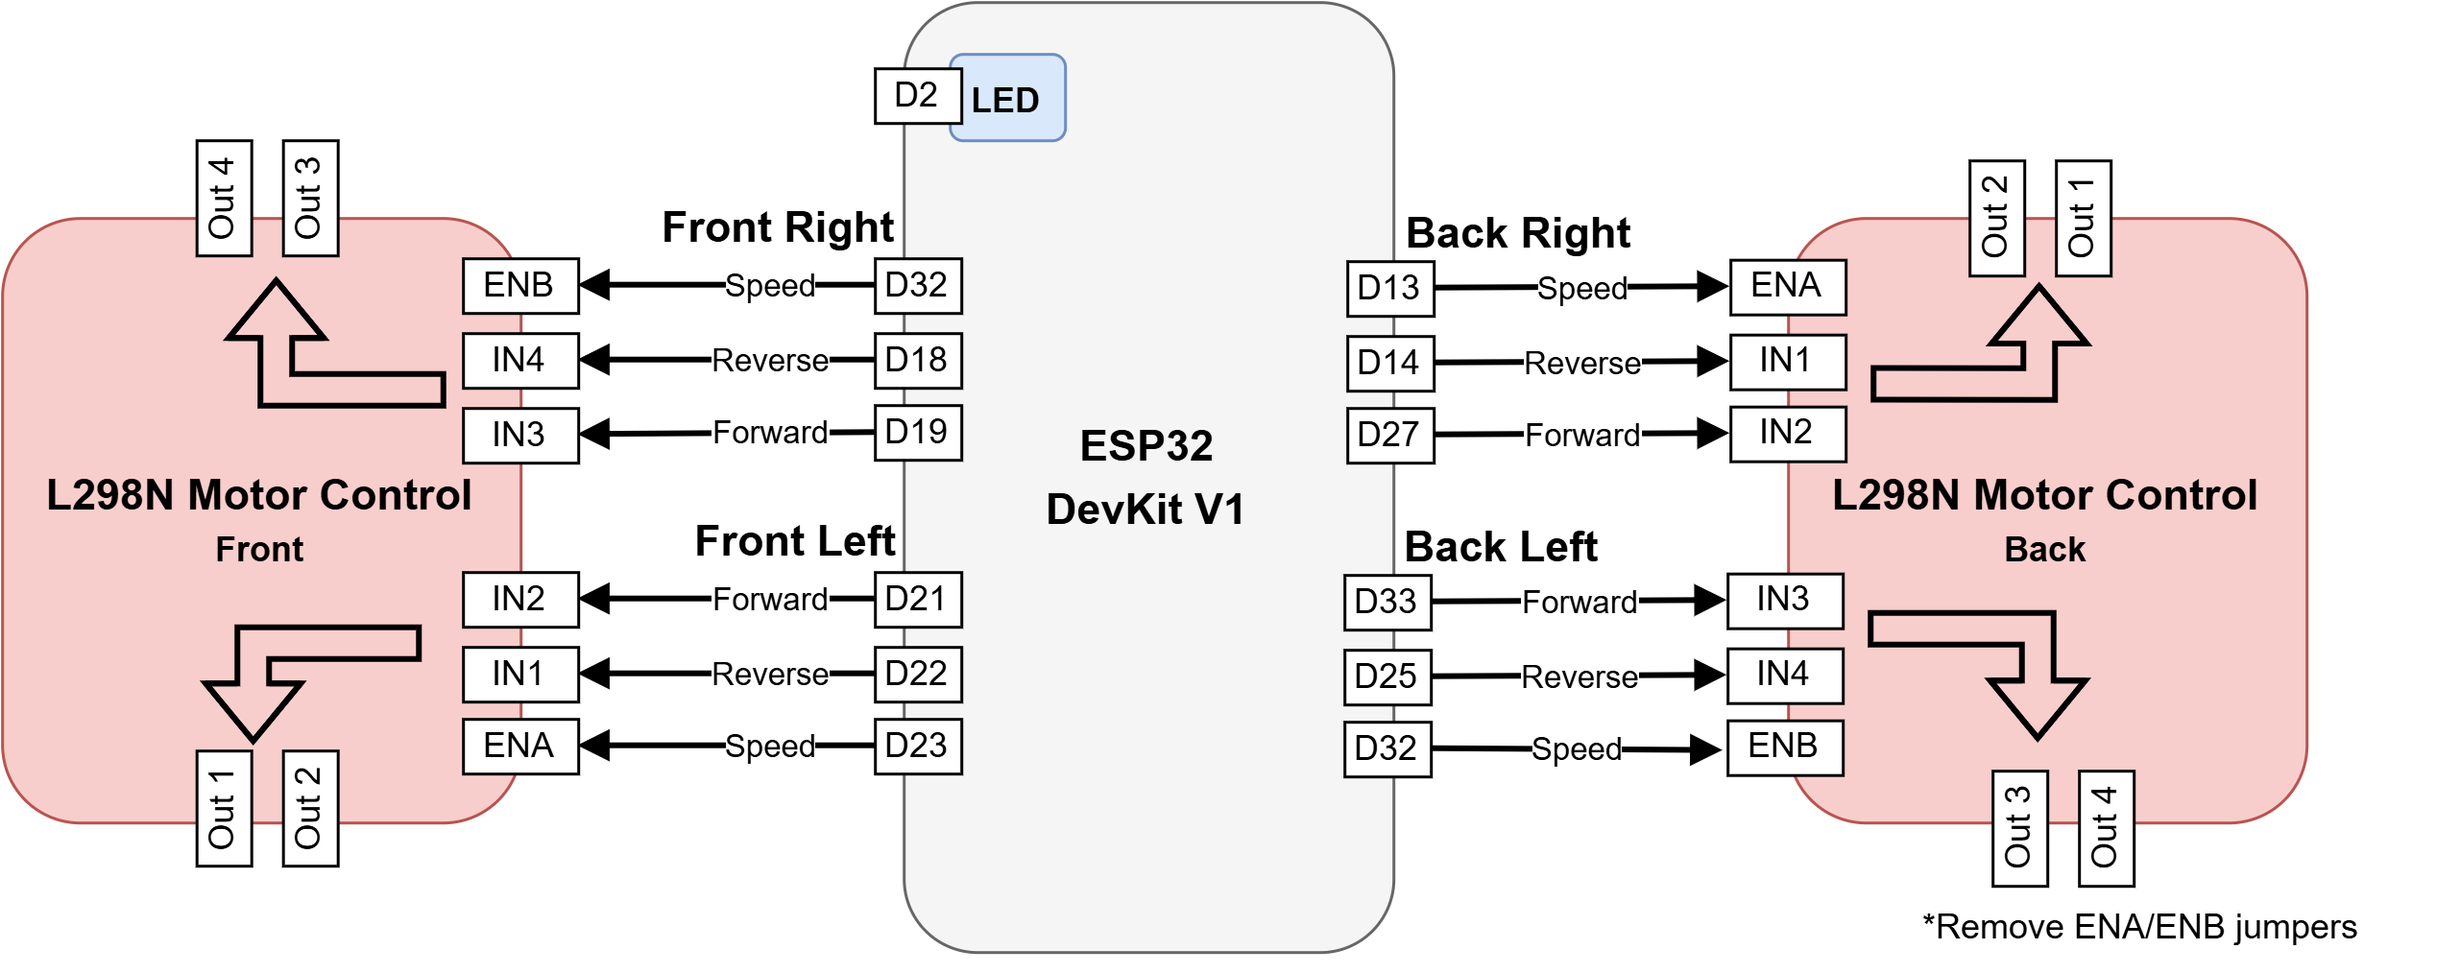
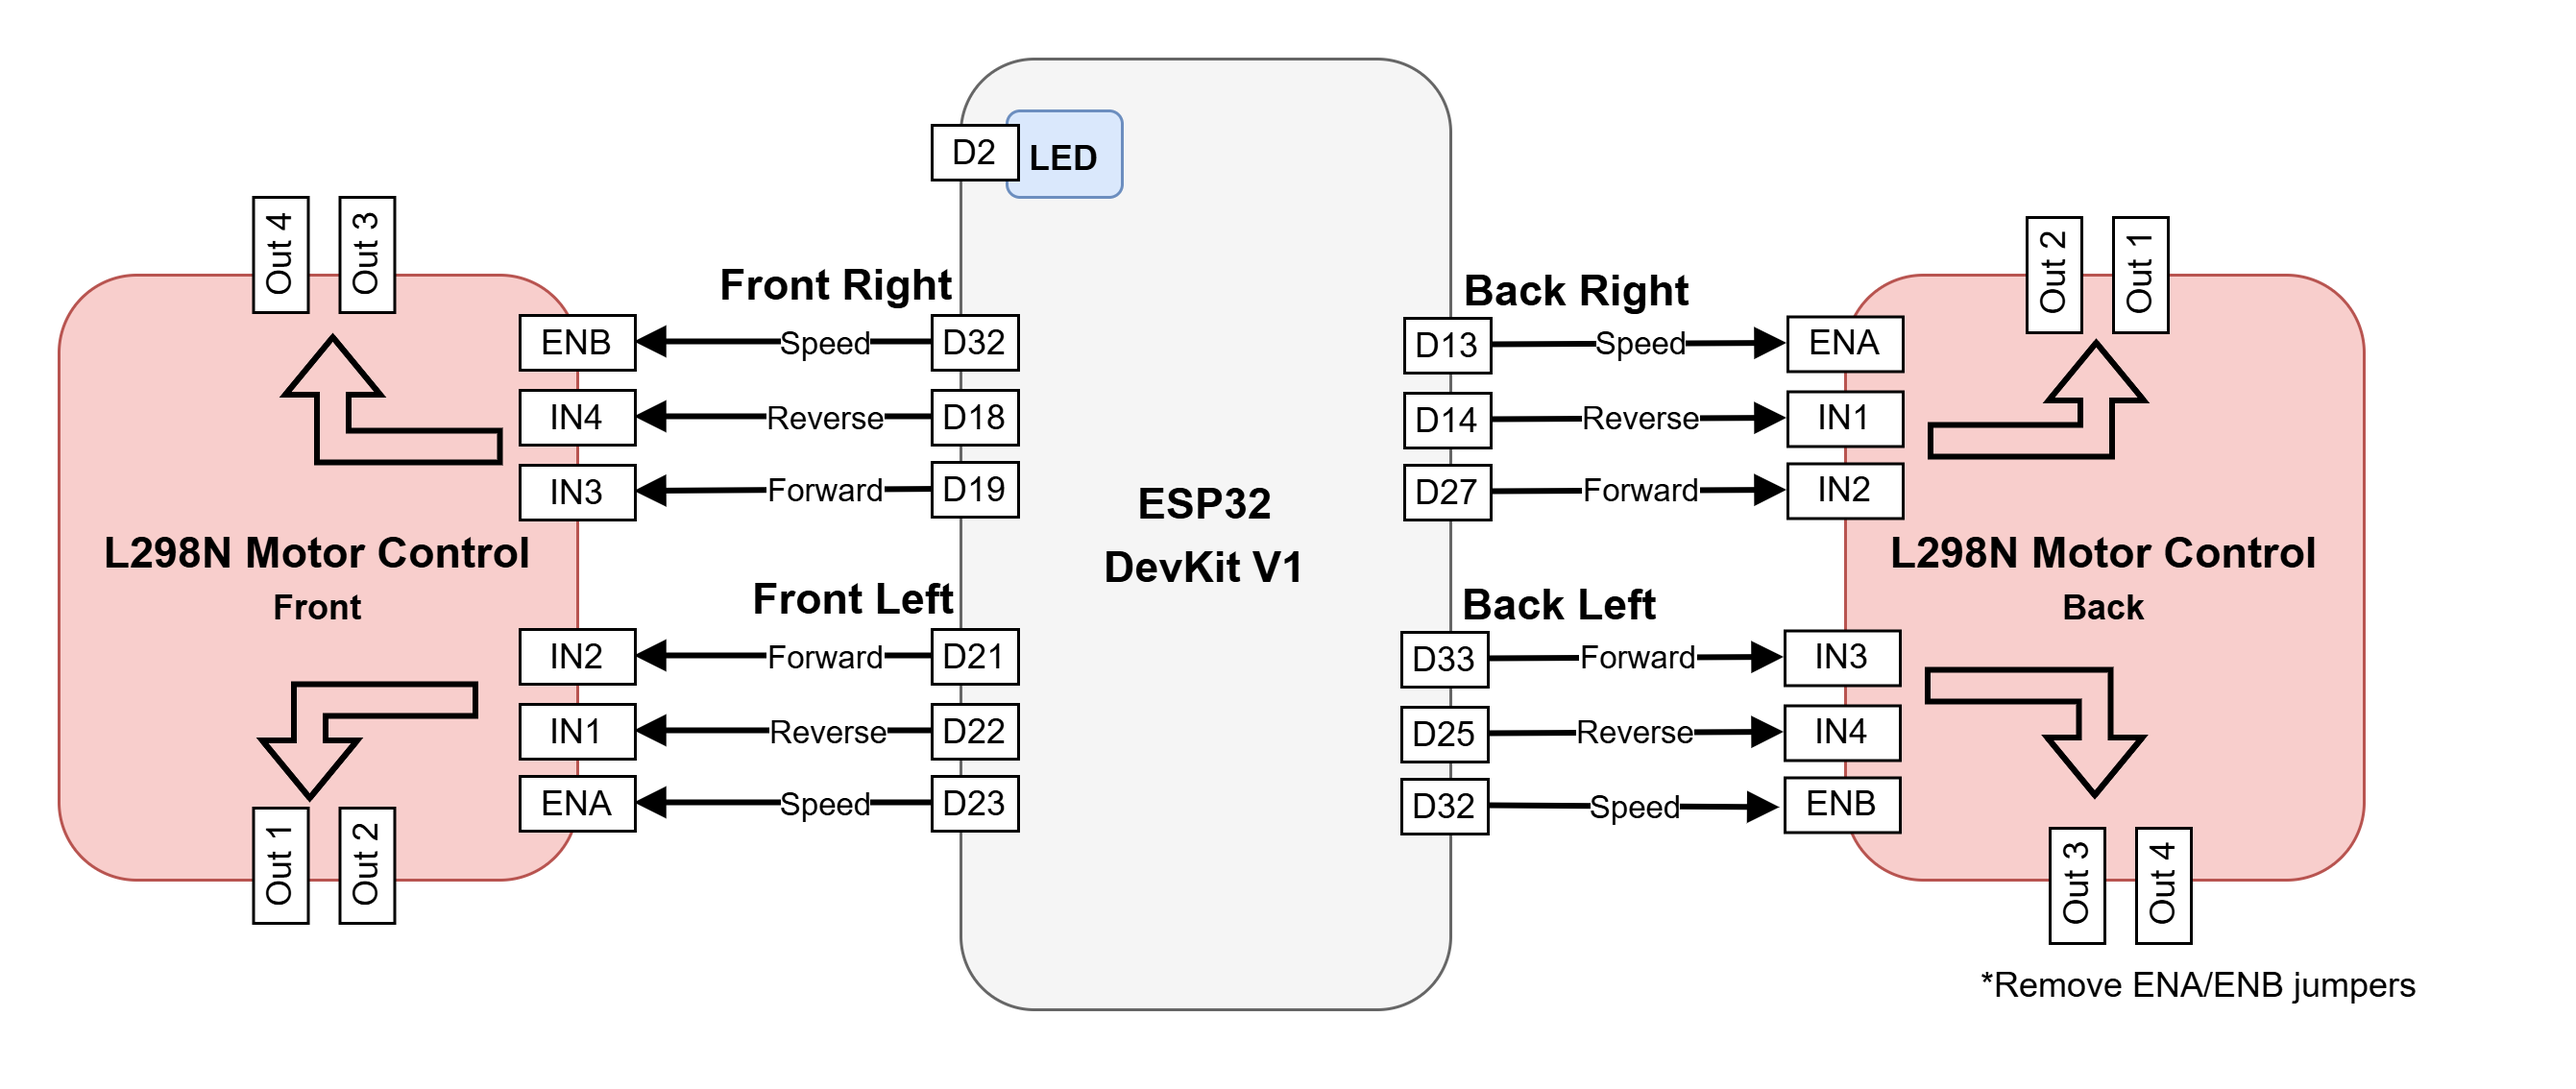
Working on overview post

diff --git a/_posts/2026-10-11-rover-overview.md b/_posts/2026-10-11-rover-overview.md
@@ -1,0 +1,164 @@
+---
+title: "Rover: An ESP32 DevKit V1 Omni-Wheel Platform"
+date: 2026-10-11 09:00:00 -0400
+categories: [Rover, ESP32, Projects]
+tags: [embedded, esp32, esp-idf, freertos, robotics, motors]
+---
+
+Rover is a tiny remote controlled car that I built from a metal frame, an ESP32 DevKit V1, and a TT Motor / mecanum wheel drivetrain. It was a fun project that allowed me to get more familiar with ESP32 and FreeRTOS, resulting in a base platform that can be used to test new controls and sensors.
+
+![Rover, a four-wheel omni-drive embedded project](/assets/img/rover/rover_landscape.jpg){:style="width:80%; display:block; margin-left:auto; margin-right:auto"}
+*Rover is a small platform for experimenting with embedded controls and hardware.*
+
+Rover uses Espressif's ESP-IDF rather than Arduino's higher-level APIs. This was an opportunity for me to gain familiarity with FreeRTOS (I've used Zephyr and was curious how they stack up). I also wanted Rover to be as portable as possible so I had a platform for playing with new microcontrollers in the future. Arduino's ESP32 framework also uses FreeRTOS underneath; the difference is the level of abstraction. The goal was not simply to make a car move, but to use low-level embedded software tools and build a platform for further exploration.
+
+The source is available in the [Rover repository](https://github.com/JFolkens/esp32_peripheral_debug/tree/rover_v1).
+There are in-depth posts on
+- {% assign my_post = site.posts | where: "path", "_posts/2026-09-25-modular-embedded-design-the-web-peripheral-interface.md" | first %}
+<a href="{{ my_post.url | relative_url }}">{{ my_post.title }}</a>
+- {% assign my_post = site.posts | where: "path", "_posts/2026-09-25-local-gtest-build.md" | first %}
+<a href="{{ my_post.url | relative_url }}">{{ my_post.title }}</a>
+- {% assign my_post = site.posts | where: "path", "_posts/2026-09-25-binary-assets-on-esp32.md" | first %}
+<a href="{{ my_post.url | relative_url }}">{{ my_post.title }}</a>
+
+## Hardware
+
+Rover uses two L298N dual-motor control boards to control four wheels independently (a necessity for omni-wheels). Each motor has separate Forward, Reverse, and Speed (PWM) control signals. The ESP32 DevKit V1 also has an onboard blue LED.
+
+![Rover ESP32 DevKit V1 pinout and L298N motor connections](/assets/img/diagrams/rover_pinout.png){:style="width:80%; display:block; margin-left:auto; margin-right:auto"}
+*Rover GPIO pinout.*
+
+Rover is powered from a battery pack mounted on the bottom of the chassis. This keeps the pack low and centered, while still being easy to remove. The frame is a basic aluminum template off [Amazon](https://www.amazon.com/DWWTKL-Omnidirectional-Educational-Raspberry-Unassembled/dp/B0CBRBCFMZ) which can be drilled through with essentially any drill bit.
+
+<div style="display: grid; grid-template-columns: 30% 30%; gap: 10%; justify-content: center;">
+  <figure style="margin: 0; text-align: center;">
+    <img src="/assets/img/rover/rover_bottom.jpg" width="100%" alt="Rover upside down showing battery pack" />
+    <em>Rover upside down</em>
+  </figure>
+  <figure style="margin: 0; text-align: center;">
+    <img src="/assets/img/rover/rover_bottom_battery_cover_off.jpg" width="100%" alt="Rover upside down with battery cover removed">
+    <em>Without battery cover</em>
+  </figure>
+</div>
+
+The battery supplies power to the motors via a strip of perfboard that I call my high-voltage rail (because I like to feel fancy). It also provides input to DC buck converter that provides a smooth 5V for the ESP32 board.
+
+![High-voltage rail powers motors and contains a DC step-down chip](/assets/img/rover/high_voltage_rail.jpg){:style="width:40%; display:block; margin-left:auto; margin-right:auto"}
+*High-voltage rail takes battery power and distributes to motor controllers and DC down converter.*
+
+ESP32 DevKit V1 has ports to accept 5V or 3.3V power. The MP1584 Buck Converter is tuned via a small screw on the top; I set it to 5V and connected it to the ESP32 perf board via JST connector.
+
+![Rover battery, power rails, motor drivers, and 5 V buck converter](/assets/img/diagrams/rover_power.png)
+*Power distribution for the motor drivers and ESP32 DevKit V1.*
+
+The battery uses two 3400 mAh cells in a 2S series pack. In a series pack the
+voltage adds while the amp-hour capacity remains about 3400 mAh; the cell
+capacities do not add to 6800 mAh. Capacity alone also does not establish
+runtime, which I have not measured under a defined test condition.
+
+![Rover electronics mounted on perfboard](/assets/img/rover/esp32_perfboard.jpg){:style="width:75%; display:block; margin-left:auto; margin-right:auto"}
+*The ESP32 and power wiring on the rover.*
+
+## Software and control path
+
+The control path runs from the browser to the motors:
+
+```text
+Browser controls
+    -> HTTP request over the local Wi-Fi network
+    -> ESP-IDF HTTP server and DeviceWebApp
+    -> web peripheral wrapper
+    -> DrivetrainOmni
+    -> motor interfaces and ESP32 GPIO/PWM implementation
+    -> L298N boards
+    -> motors
+```
+
+`app_main()` creates the ESP32 GPIO and motor objects, combines the four motors
+in `DrivetrainOmni`, and registers the web-facing peripherals with
+`DeviceWebApp`. The web application and hardware interfaces keep page and
+request handling separate from the low-level ESP32 implementation. That
+separation also lets selected logic be built and tested on a desktop with
+mocked hardware interfaces.
+
+The drivetrain accepts x translation, y translation, and clockwise rotation
+commands. It mixes those components into one command for each wheel, then
+scales the outputs if needed to keep them within the supported range. The
+commands are normalized requests, not measurements of wheel speed. Rover does
+not currently have encoders, so it cannot report actual wheel speed or
+position.
+
+The control page is available at `http://192.168.1.10` on my local network. The
+server uses plain HTTP and has no application-level authentication, so this is
+a development interface for a trusted local network, not a hardened remote
+control system.
+
+## What I have tested
+
+I brought the hardware up incrementally: first GPIO and the onboard LED, then
+PWM, then a single motor, and finally the complete drivetrain. This let me
+check smaller pieces before trying to debug the four-wheel mechanism as a
+whole.
+
+With the web controls, I have confirmed movement in both x directions, both y
+directions, and both rotation directions. Here is a short video of Rover in
+motion:
+
+<video width="100%" controls muted playsinline>
+  <source src="/assets/img/rover/rover_video_cropped.mp4" type="video/mp4">
+  Your browser does not support embedded video.
+</video>
+
+The repository also has host-side GoogleTest coverage for selected logic.
+Those tests help check software behavior without the physical rover, but they
+do not validate the wiring, motor drivers, or how the chassis moves. The
+[unit-testing post]({% post_url 2026-09-25-local-gtest-build %}) describes the
+scope and setup in more detail.
+
+## Limitations and next steps
+
+There are two important limitations in the current control system. First, the
+motor commands are open loop because there are no wheel encoders. Second, the
+motors do not begin moving until the command is around 70% in my current setup.
+The mapping from command to PWM is linear, so low-speed control is poor. That
+threshold is an observation from this build, not a calibrated value for all
+conditions; motor variation, load, battery voltage, and driver losses may all
+affect it.
+
+There is also no communication-loss stop. If Wi-Fi drops, the motors keep
+running at their last commanded state. Adding and testing a command timeout
+and stop behavior is a priority before extending the remote-control options.
+
+After I finish setting up the project website, the next stage is to investigate
+driving Rover with a PS4 controller over Bluetooth. Other ideas include tuning
+the motor response, adding wheel encoders, and designing a custom PCB to
+replace some of the perfboard wiring.
+
+The PCB idea includes simplifying motor direction signals. Today each of the
+four motors uses Forward, Reverse, and PWM signals, for 12 ESP32 outputs. One
+direction output per motor plus inverter/gating logic to generate the driver
+inputs, four PWM outputs, and one shared brake signal would use 9 outputs, a
+net reduction of 3. The shared brake would affect all four motors, and its
+logic would need to keep the L298N enable and direction inputs in the intended
+states. This is only a design idea; I have not built or tested that circuit.
+
+Longer term, I would like the project structure to make it easier to adapt the
+software to a smaller, lower-cost microcontroller. The current hardware
+implementations are specific to the ESP32, so that would still require a new
+target implementation and testing on the new hardware. The interface
+boundaries are a starting point for that work, not a claim that Rover is
+already portable.
+
+## Build information
+
+The firmware targets the ESP32 DevKit V1 and was built with ESP-IDF v6.0.2.
+Install the matching ESP-IDF tools, open the `web_server` project, select the
+`esp32` target, and use the ESP-IDF build/flash workflow described in the
+[project README](https://github.com/JFolkens/esp32_peripheral_debug). The
+firmware connects to a Wi-Fi access point in station mode; configure the SSID
+and provide the local password override described in `web_server/main/web_server.cpp`.
+Keep real credentials out of source control.
+
+For more detail, continue with the [Web-Peripheral Interface]({% post_url 2026-09-25-modular-embedded-design-the-web-peripheral-interface %}),
+[Unit Testing an Embedded Platform]({% post_url 2026-09-25-local-gtest-build %}),
+and [Binary Assets on ESP32]({% post_url 2026-09-25-binary-assets-on-esp32 %}) posts.

diff --git a/_tabs/rover.md b/_tabs/rover.md
@@ -12,12 +12,12 @@ Rover is an ESP-32 powered car controlled through a hosted web server.
 
 ## Posts
 
-- Overview *(coming soon)*
+- {% assign my_post = site.posts | where: "path", "_posts/2026-10-11-rover-overview.md" | first %}
+<a href="{{ my_post.url | relative_url }}">Rover: Overview</a>
 - {% assign my_post = site.posts | where: "path", "_posts/2026-09-25-modular-embedded-design-the-web-peripheral-interface.md" | first %}
 <a href="{{ my_post.url | relative_url }}">{{ my_post.title }}</a>
 - {% assign my_post = site.posts | where: "path", "_posts/2026-09-25-local-gtest-build.md" | first %}
 <a href="{{ my_post.url | relative_url }}">{{ my_post.title }}</a>
-- Evaluating Binary Size and Updating the Partition Table *(coming soon)*
 - {% assign my_post = site.posts | where: "path", "_posts/2026-09-25-binary-assets-on-esp32.md" | first %}
 <a href="{{ my_post.url | relative_url }}">{{ my_post.title }}</a>
 
